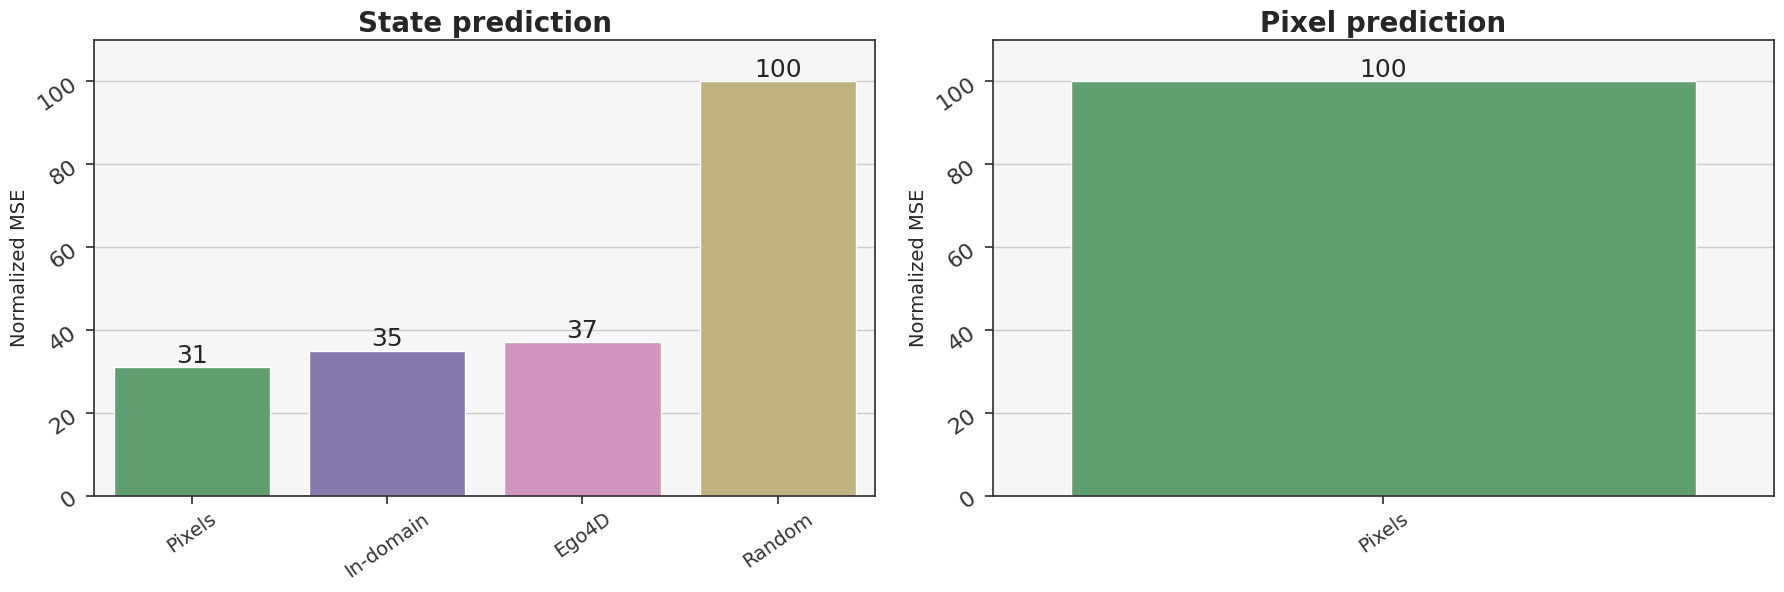
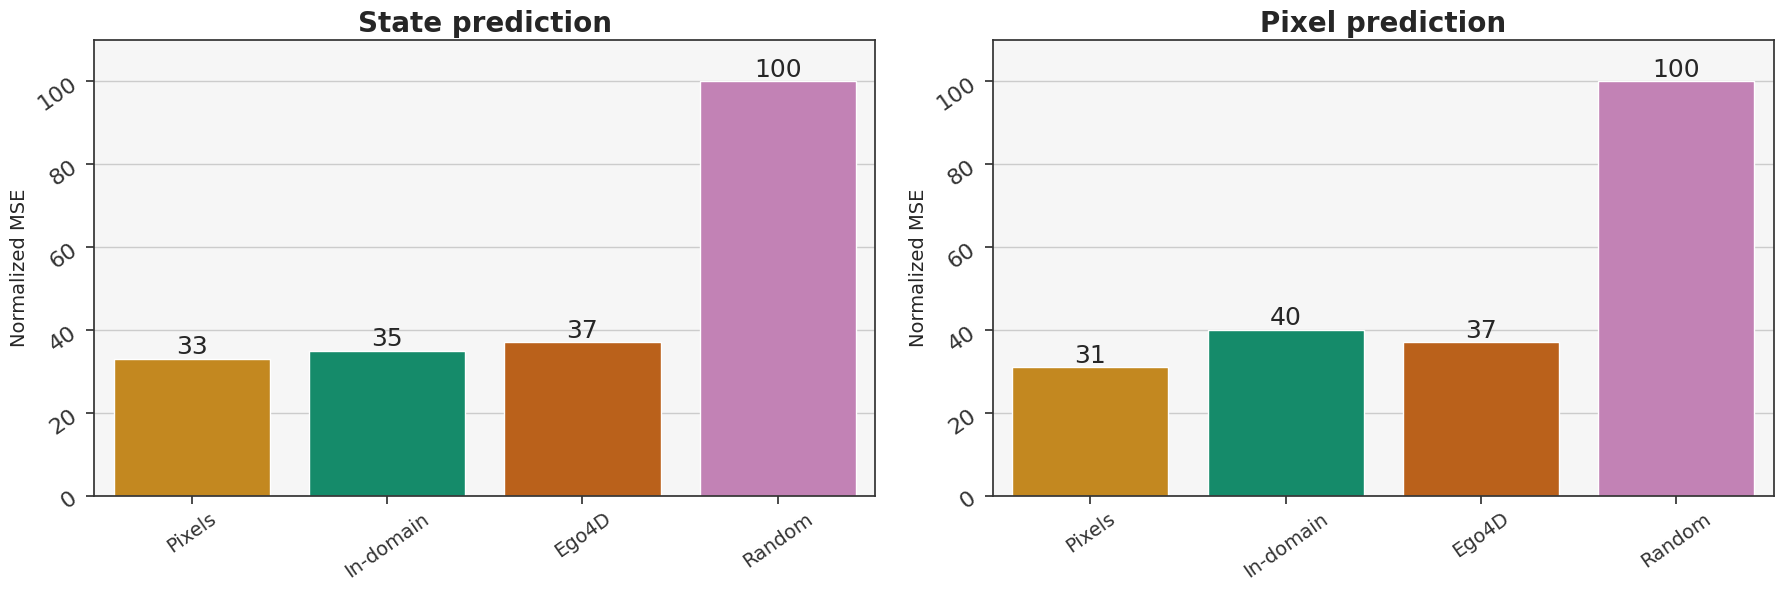
eval + plot open loop control results

diff --git a/plots/openloop.py b/plots/openloop.py
@@ -1,0 +1,104 @@
+import os, sys
+sys.path.append(os.path.dirname(os.path.dirname(os.path.abspath(__file__))))
+import numpy as np
+import pandas as pd
+from pathlib import Path
+from logger import make_dir
+import matplotlib
+matplotlib.use('agg')
+import matplotlib.pyplot as plt
+import seaborn as sns
+matplotlib.rcParams['pdf.fonttype'] = 42
+matplotlib.rcParams['ps.fonttype'] = 42
+DEFAULT_PLOT_RC = {
+	'axes.labelsize': 14,
+	'axes.titlesize': 20,
+	'axes.facecolor': '#F6F6F6',
+	'axes.edgecolor': '#333',
+	'legend.fontsize': 14,
+	'xtick.labelsize': 14,
+	'xtick.bottom': True,
+	'xtick.color': '#333',
+	'ytick.labelsize': 16,
+	'ytick.left': True,
+	'ytick.color': '#333',
+}
+sns.set(style='whitegrid', rc=DEFAULT_PLOT_RC)
+
+
+def main():
+	tasks = {
+		'dmcontrol': ['cup-catch', 'finger-spin', 'cheetah-run', 'walker-walk', 'walker-run'],
+		'metaworld': ['mw-drawer-close', 'mw-drawer-open', 'mw-hammer', 'mw-box-close', 'mw-push']
+	}
+	# openloop_dir = make_dir(Path(cfg.logging_dir) / 'openloop' / cfg.task / (cfg.features if cfg.modality=='features' else cfg.modality) / cfg.exp_name / str(cfg.horizon) / str(cfg.seed))
+	logging_dir = Path('/private/home/nihansen/code/tdmpc2/openloop')
+
+	source2exp = {
+		'pixels': 'offline-v2',
+		'mocoego': 'mocoego-offline-v2',
+		'mocodmcontrol': 'mocodmcontrol-offline-v2',
+		# 'mocometaworld': 'mocometaworld-offline-v2',
+		'random': 'random-offline-v2',
+	}
+	source2label = {
+		'pixels': 'Pixels',
+		'mocodmcontrol': 'In-domain',
+		# 'mocometaworld': 'In-domain',
+		'mocoego': 'Ego4D',
+		'random': 'Random',
+	}
+	horizon2label = {
+		5: '5 steps (1%)',
+		50: '50 steps (10%)',
+		500: '500 steps (100%)',
+	}
+	metric = 'episode_reward'
+
+	entries = []
+	for task in tasks['dmcontrol']: # + tasks['metaworld']:
+		for source in ['pixels', 'mocoego', 'mocodmcontrol', 'random']: # 'mocometaworld' # 'pixels'
+			for horizon in [5, 50, 500]:
+				for seed in range(1, 3+1):
+					fp = logging_dir / task / source / source2exp[source] / str(horizon) / str(seed) / 'metrics.csv'
+					# breakpoint()
+					try:
+						df = pd.read_csv(fp)
+						df = df.groupby(['exp_name']).mean().reset_index()
+						idx = list(source2label.keys()).index(source)
+						entries.append(
+							(idx, task, source2label[source], horizon2label[horizon], seed, int(df[metric]))
+						)
+					except FileNotFoundError:
+						print('File not found:', task, source, seed)
+
+	df = pd.DataFrame(entries, columns=['idx', 'task', 'experiment', 'horizon', 'seed', metric])
+
+	# mean across seeds
+	df = df.groupby(['idx', 'task', 'experiment', 'horizon']).mean().reset_index()
+
+	# mean across tasks
+	df = df.groupby(['idx', 'experiment', 'horizon']).mean().reset_index()
+
+	f, ax = plt.subplots(1, 1, figsize=(8,4.5))
+
+	# color palette
+	colors = sns.color_palette('colorblind')
+
+	# plot
+	g = sns.barplot(data=df, x='experiment', y=metric, hue='horizon', ax=ax, ci=None, palette=colors)
+	g.legend_.remove()
+	ax.set_title('Open-loop planning', fontweight='bold')
+	ax.set_ylim(0, 600)
+	ax.set_xlabel('')
+	ax.set_ylabel('Episode return')
+
+	h, l = ax.get_legend_handles_labels()
+	f.legend(h, l, loc='lower center', ncol=4, frameon=False)
+	plt.tight_layout()
+	f.subplots_adjust(bottom=0.185, wspace=0.15)
+	plt.savefig(Path(make_dir('plots')) / 'openloop.png', bbox_inches='tight')
+
+
+if __name__ == '__main__':
+	main()

diff --git a/evaluate_openloop.py b/evaluate_openloop.py
@@ -12,10 +12,10 @@ from cfg_parse import parse_cfg
 from env import make_env, set_seed
 from algorithm.tdmpc import TDMPC
 from algorithm.renderer import Renderer
-from algorithm.helper import RendererBuffer
 from termcolor import colored
 import imageio
 from logger import make_dir
+import pandas as pd
 import hydra
 os.environ["WANDB_SILENT"] = "true"
 import wandb
@@ -38,15 +38,24 @@ def open_loop(cfg: dict):
 	if not os.path.exists(save_dir / 'model_10000.pt'):
 		print('Failed to find renderer model. Please train the renderer first.')
 		return
-	env, renderer, buffer, val_buffer = make_env(cfg), Renderer(cfg), RendererBuffer(cfg), RendererBuffer(cfg)
+	env, renderer = make_env(cfg), Renderer(cfg)
 
 	# Load agent from wandb
 	run_name = 'renderer' + str(np.random.randint(0, int(1e6)))
 	run = wandb.init(job_type='renderer', entity=cfg.wandb_entity, project=cfg.wandb_project, name=run_name, tags='renderer')
 	agent = TDMPC(cfg)
-	tdmpc_artifact = f'{cfg.task}-{cfg.modality}-{cfg.exp_name}-{cfg.seed}-chkpt:v1'
-	print(f'Loading TDMPC artifact {tdmpc_artifact}')
-	artifact = run.use_artifact(tdmpc_artifact, type='model')
+	tdmpc_artifacts = [f'{cfg.task}-{cfg.modality}-{cfg.exp_name}-{cfg.seed}-chkpt:v{i}' for i in reversed(range(10))]
+	artifact = None
+	for tdmpc_artifact in tdmpc_artifacts:
+		try:
+			artifact = run.use_artifact(tdmpc_artifact, type='model')
+			print(f'Loading TDMPC artifact {tdmpc_artifact}')
+			break
+		except:
+			continue
+	if artifact is None:
+		print('No TDMPC artifact found. Skipping.')
+		return
 	artifact_dir = Path(artifact.download())
 	agent.load(artifact_dir / os.listdir(artifact_dir)[0])
 	renderer.set_tdmpc_agent(agent)
@@ -55,7 +64,8 @@ def open_loop(cfg: dict):
 
 	# Evaluate
 	print(colored('Evaluating open loop...', 'yellow'))
-	episode_rewards = []
+	openloop_dir = make_dir(Path(cfg.logging_dir) / 'openloop' / cfg.task / (cfg.features if cfg.modality=='features' else cfg.modality) / cfg.exp_name / str(cfg.horizon) / str(cfg.seed))
+	metrics, episode_rewards = [], []
 	for i in range(cfg.eval_episodes):
 		obs, done, ep_reward = env.reset(), False, 0
 		pred_frames, gt_frames = [], []
@@ -72,10 +82,14 @@ def open_loop(cfg: dict):
 		print('Reward:', ep_reward)
 		pred_frames = torch.stack(pred_frames).mul(255).byte()
 		gt_frames = torch.from_numpy(np.array(gt_frames))
-		imageio.mimsave(Path(cfg.logging_dir) / 'openloop' / f'openloop_{cfg.task.replace("-", "_")}_horizon{cfg.horizon}_{i}.gif', torch.cat((pred_frames, gt_frames), dim=2))
+		imageio.mimsave(openloop_dir / f'h{cfg.horizon}_{i}.gif', torch.cat((pred_frames, gt_frames), dim=2))
+		metrics.append(np.array([i, cfg.modality, cfg.exp_name, cfg.horizon, cfg.seed, ep_reward]))
+		pd.DataFrame(np.array(metrics)).to_csv(f'{openloop_dir}/metrics.csv', header=['episode', 'modality', 'exp_name', 'horizon', 'seed', 'episode_reward'], index=None)
 		episode_rewards.append(ep_reward)
+
 	episode_rewards = np.array(episode_rewards)
 	print('Mean reward:', episode_rewards.mean())
+	
 
 
 if __name__ == '__main__':

diff --git a/plots/rendering.py b/plots/rendering.py
@@ -89,8 +89,10 @@ def main():
 
 	f, axs = plt.subplots(1, 2, figsize=(18,6))
 
-	# colors (use tableau palette)
-	colors = sns.color_palette()[::2][1:]
+	# color palette
+	colors = []
+	for color in sns.color_palette('colorblind')[1:]:
+		colors.extend([color])
 
 	# state
 	ax = axs[0]
